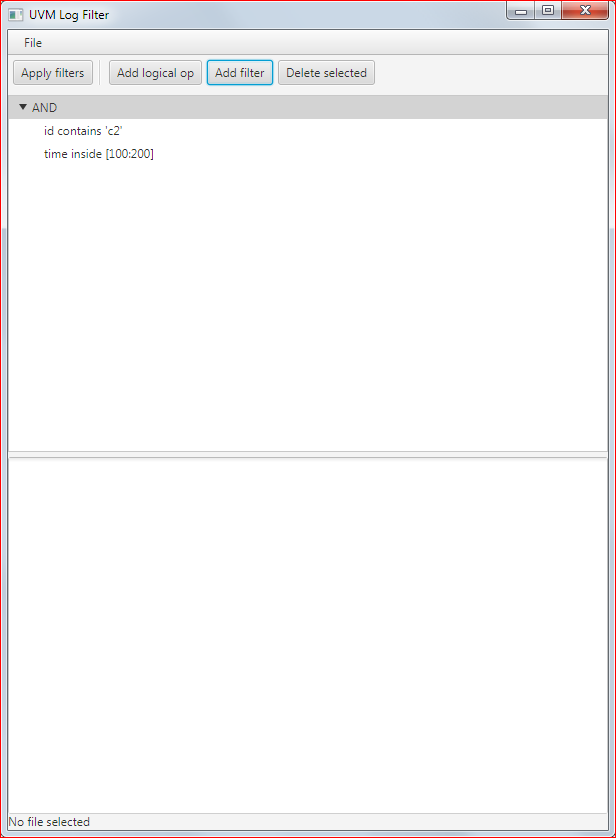
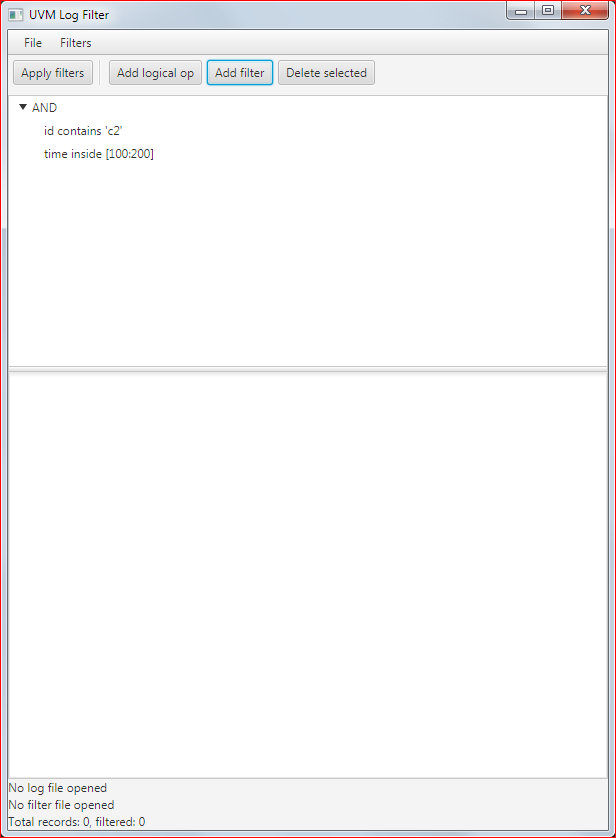
Updated README and images

diff --git a/README.md b/README.md
@@ -23,8 +23,6 @@ After launching it (by double clicking on it or, using a terminal, by typing "ja
 
 ![](images/Initial.PNG)
 
-<img src="images/Initial.PNG" width="70" />
-
 You can start adding filters, even without opening a file first.
 The first thing to do is to click on "Add logical op" since the root of the filter tree. For example, choose "AND".
 
@@ -49,6 +47,17 @@ You can now press "Apply filters":
 
 and in the text area only the UVM records with id="c2" and time between 100 and 200 will be displayed. You can then choose to save the filtering results in a new file using "File -> Save as ..."
 
+It is possible to modify already existing filters/logical operations by double clicking on them.
+
+In the status bar, at the bottom of the window, you can find some useful information:
+* name of the log file opened
+* name of the filter file loaded
+* number of the total log records parsed and of those filtered 
+
+## Filter save/restore
+It is possible to save and restore the filters entered through the GUI in a JSON file, to be able to use them
+in a different session without having to rebuild the filtering expression tree by hand.
+
 ## Limitations
 The program is currently only a prototype, but it can be used.
 However it does not come with any guarantee, so you run at your own risk.
@@ -57,13 +66,11 @@ Here I will list some of the possible improvements:
 
 * I have tried the program on some logs at work. Its performance was not a problem, but the logs were not huge.
   On very big logs it may be unbearably slow. A possible solution, in this case, might be to use Spark.
-* The GUI is not very user friendly.
+* The GUI is not particularly user friendly, for example copy/paste of filter subtrees or drag and drop of the same is not supported
 * Error conditions are not checked very thoroughly
-* UVM messages line parsing may fail 
-
-Please consider that the screenshots above may not correspond to the latest version, and that some functionality may have been added.
+* UVM messages line parsing may fail, if they are not formatted in the standard way
 
 Contributing UVM logs on which the program does not work, or just as an help to test the program is welcome.
-
+Of course, this is true only if you are allowed by your organization and if the logs do not disclose any sensitive information.
   
 
